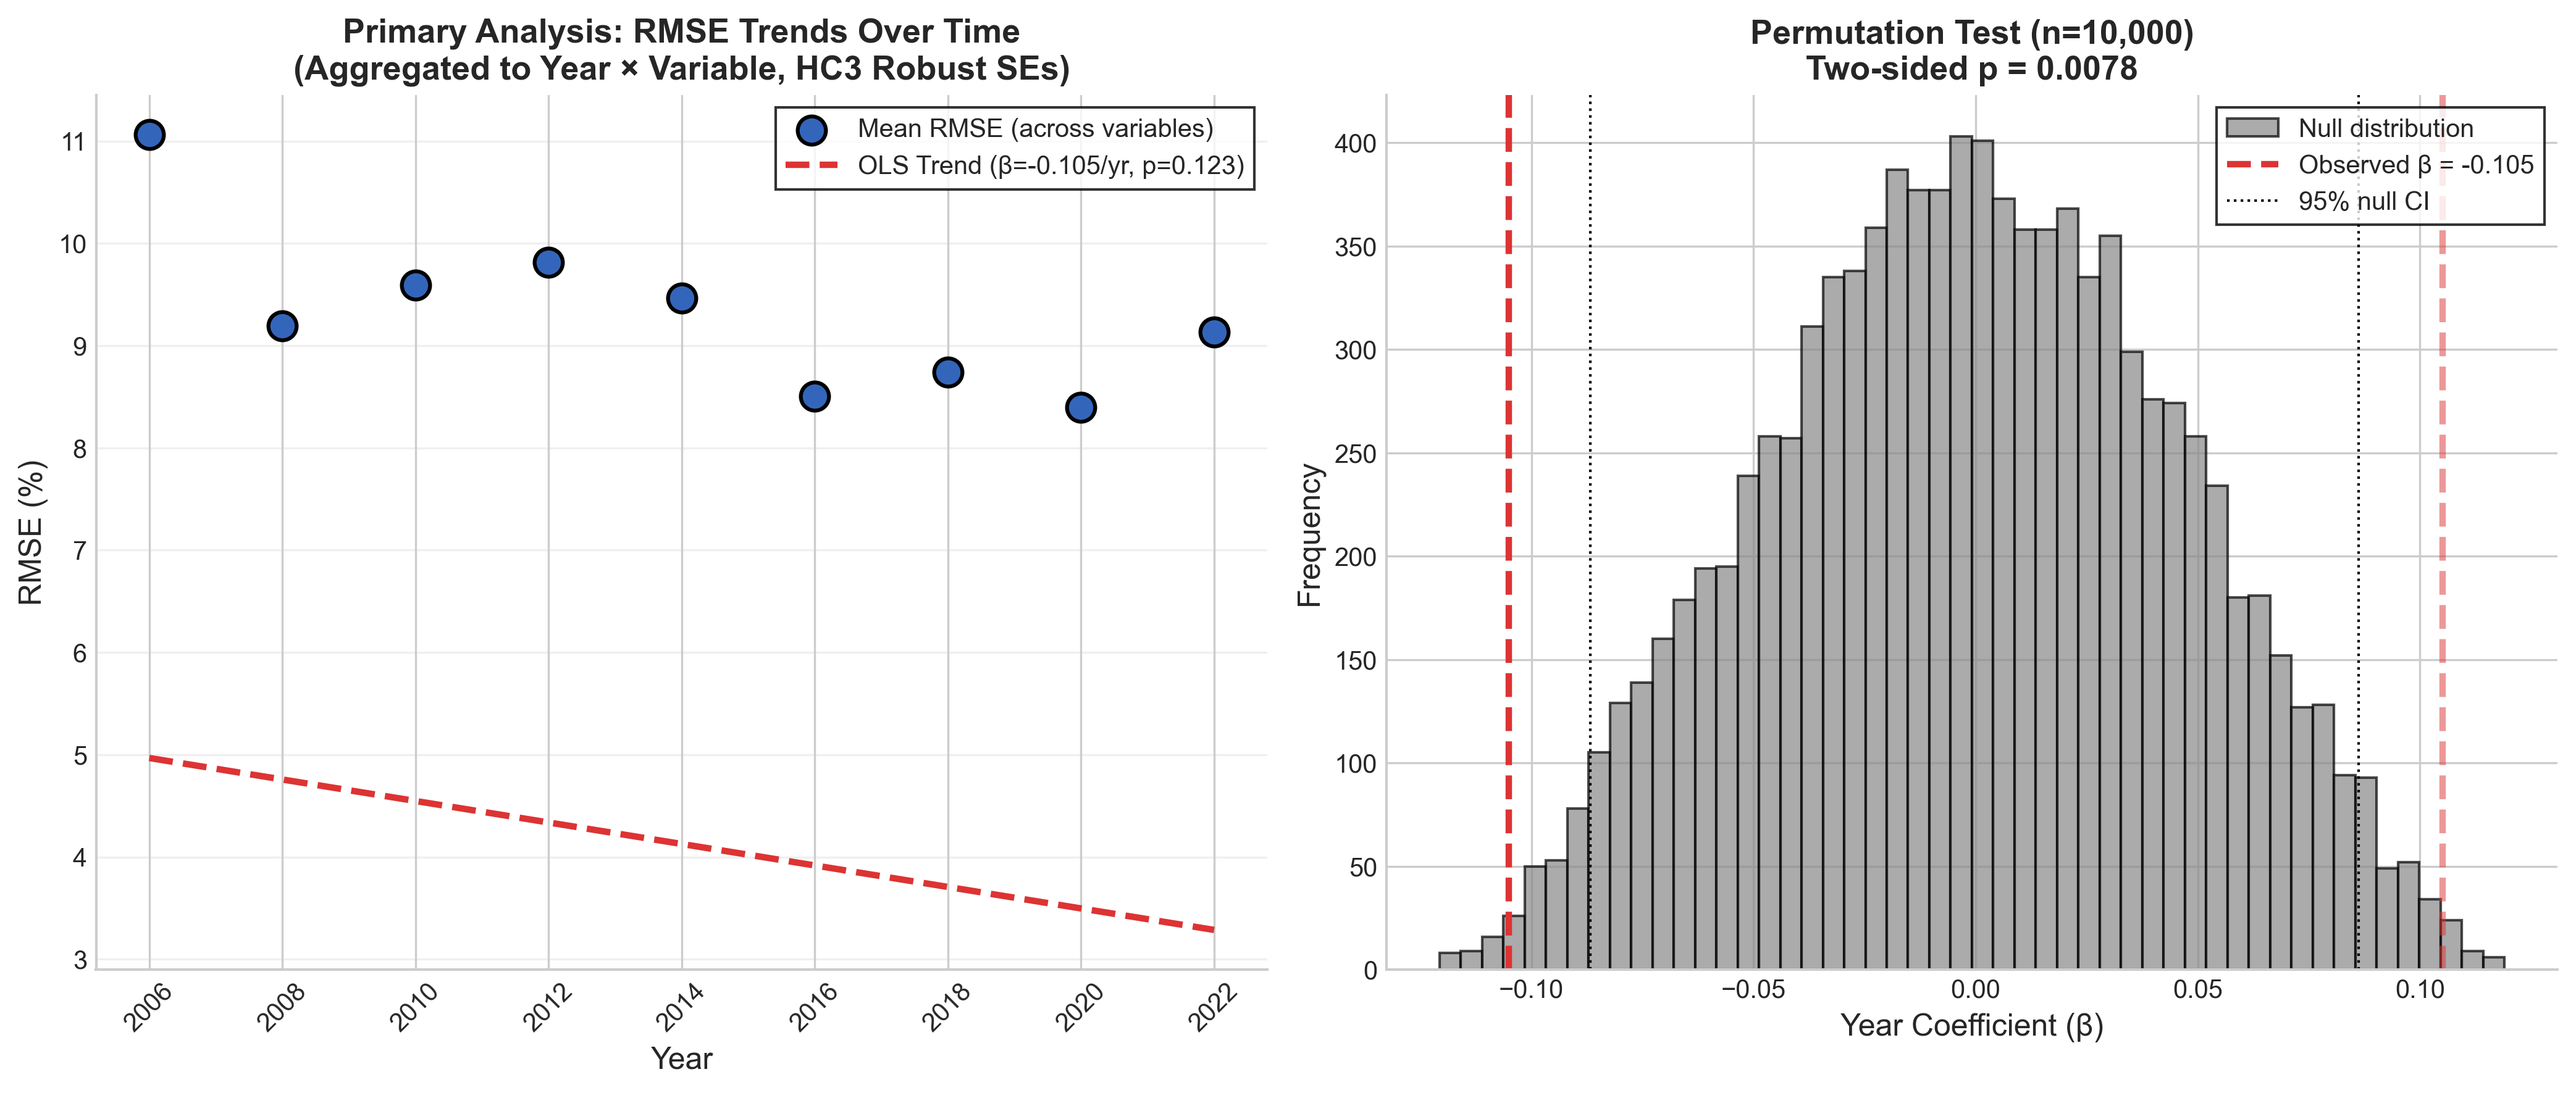
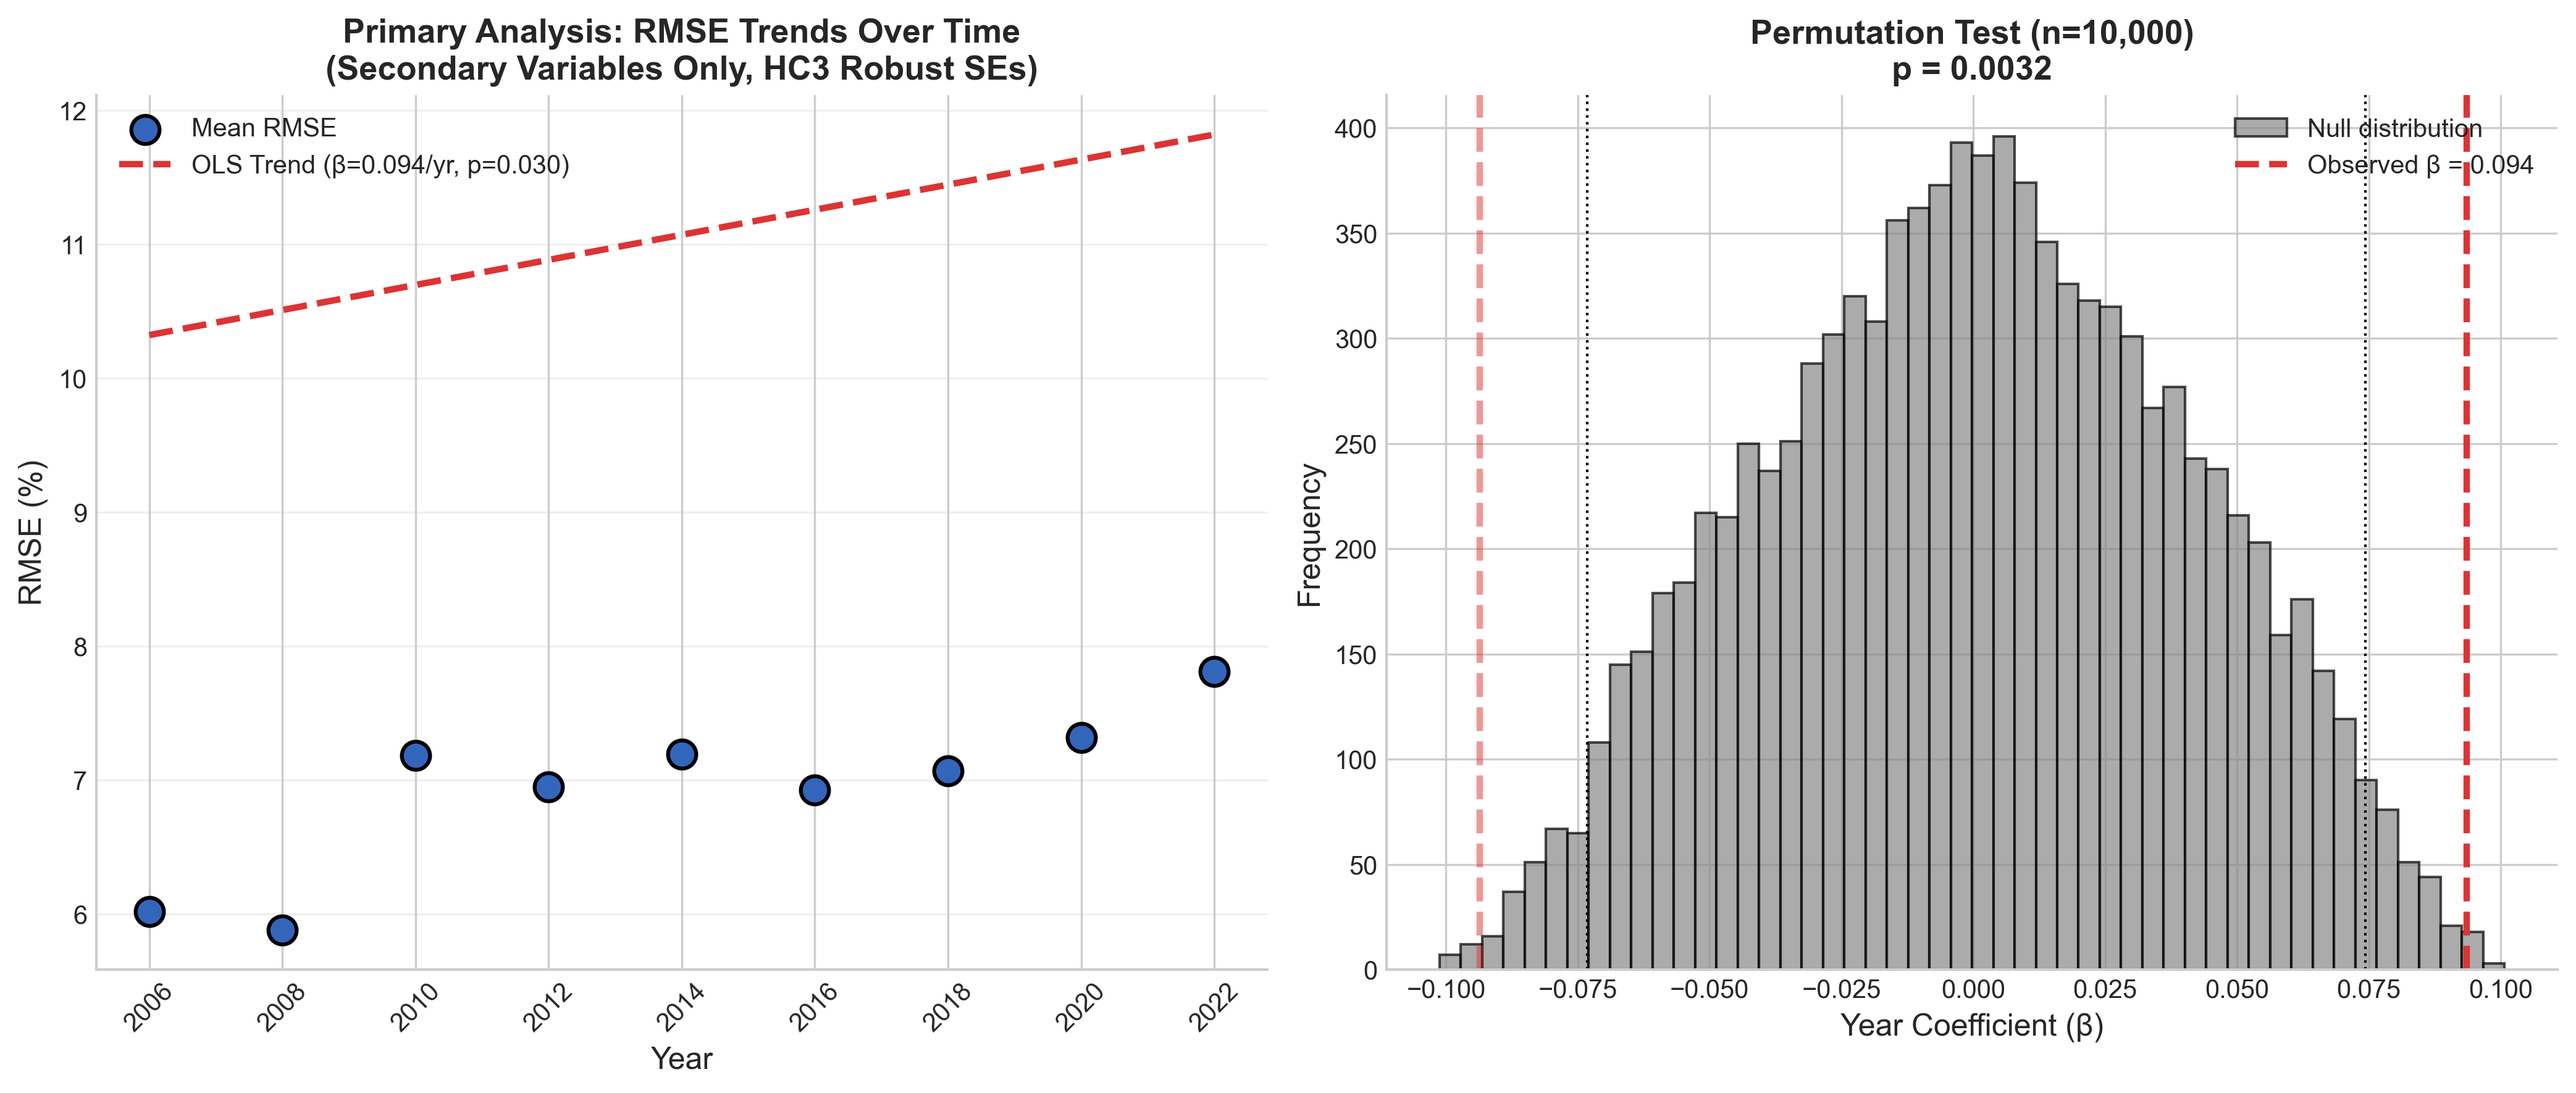
Fix primary analysis to use only secondary variables present in all years

diff --git a/tables_and_figures/output/rmse_trend_primary_analysis.tex b/tables_and_figures/output/rmse_trend_primary_analysis.tex
@@ -1,7 +1,7 @@
 \begin{table}[!htbp]
 \centering
 \footnotesize
-\caption{Primary Analysis: RMSE Trends Over Time}
+\caption{Primary Analysis: RMSE Trends Over Time (Secondary Variables Only)}
 \label{tab:rmse_trend_primary}
 \begin{threeparttable}
 \begin{tabular}{lccc}
@@ -9,18 +9,18 @@
 Method & $\beta$ (RMSE/year) & SE & p-value \\
 \midrule
 \multicolumn{4}{l}{\textit{Primary Analysis (Year $\times$ Variable Aggregated)}} \\
-\quad OLS + HC3 Robust SEs & -0.105 & 0.068 & 0.123 \\
-\quad Permutation Test (n=10,000) & -0.105 & - & 0.008* \\
+\quad OLS + HC3 Robust SEs & 0.094 & 0.043 & 0.030* \\
+\quad Permutation Test (n=10,000) & 0.094 & - & 0.003* \\
 \midrule
 \multicolumn{4}{l}{\textit{Robustness Check}} \\
-\quad Individual-level + Year-clustered SEs & -3.72$^\dagger$ & 1.15 & 0.001* \\
+\quad Individual-level + Year-clustered SEs & 0.74$^\dagger$ & 0.65 & 0.254 \\
 \bottomrule
 \end{tabular}
 \begin{tablenotes}
 \footnotesize
-\item \textit{Note:} Primary model aggregates to year $\times$ variable level (N=177), then regresses RMSE on Year with variable fixed effects. Permutation test shuffles year labels 10,000 times.
+\item \textit{Note:} Analysis restricted to 8 secondary variables present in all 9 years. Primary model aggregates to year $\times$ variable level (N=72), then regresses RMSE on Year with variable fixed effects.
 \item $^\dagger$ Coefficient is in squared error units (not directly comparable to RMSE units).
-\item * indicates p < 0.05. 95\% CI for primary estimate: [-0.238, 0.028].
+\item * indicates p < 0.05. 95\% CI for primary estimate: [0.009, 0.178].
 \end{tablenotes}
 \end{threeparttable}
 \end{table}
